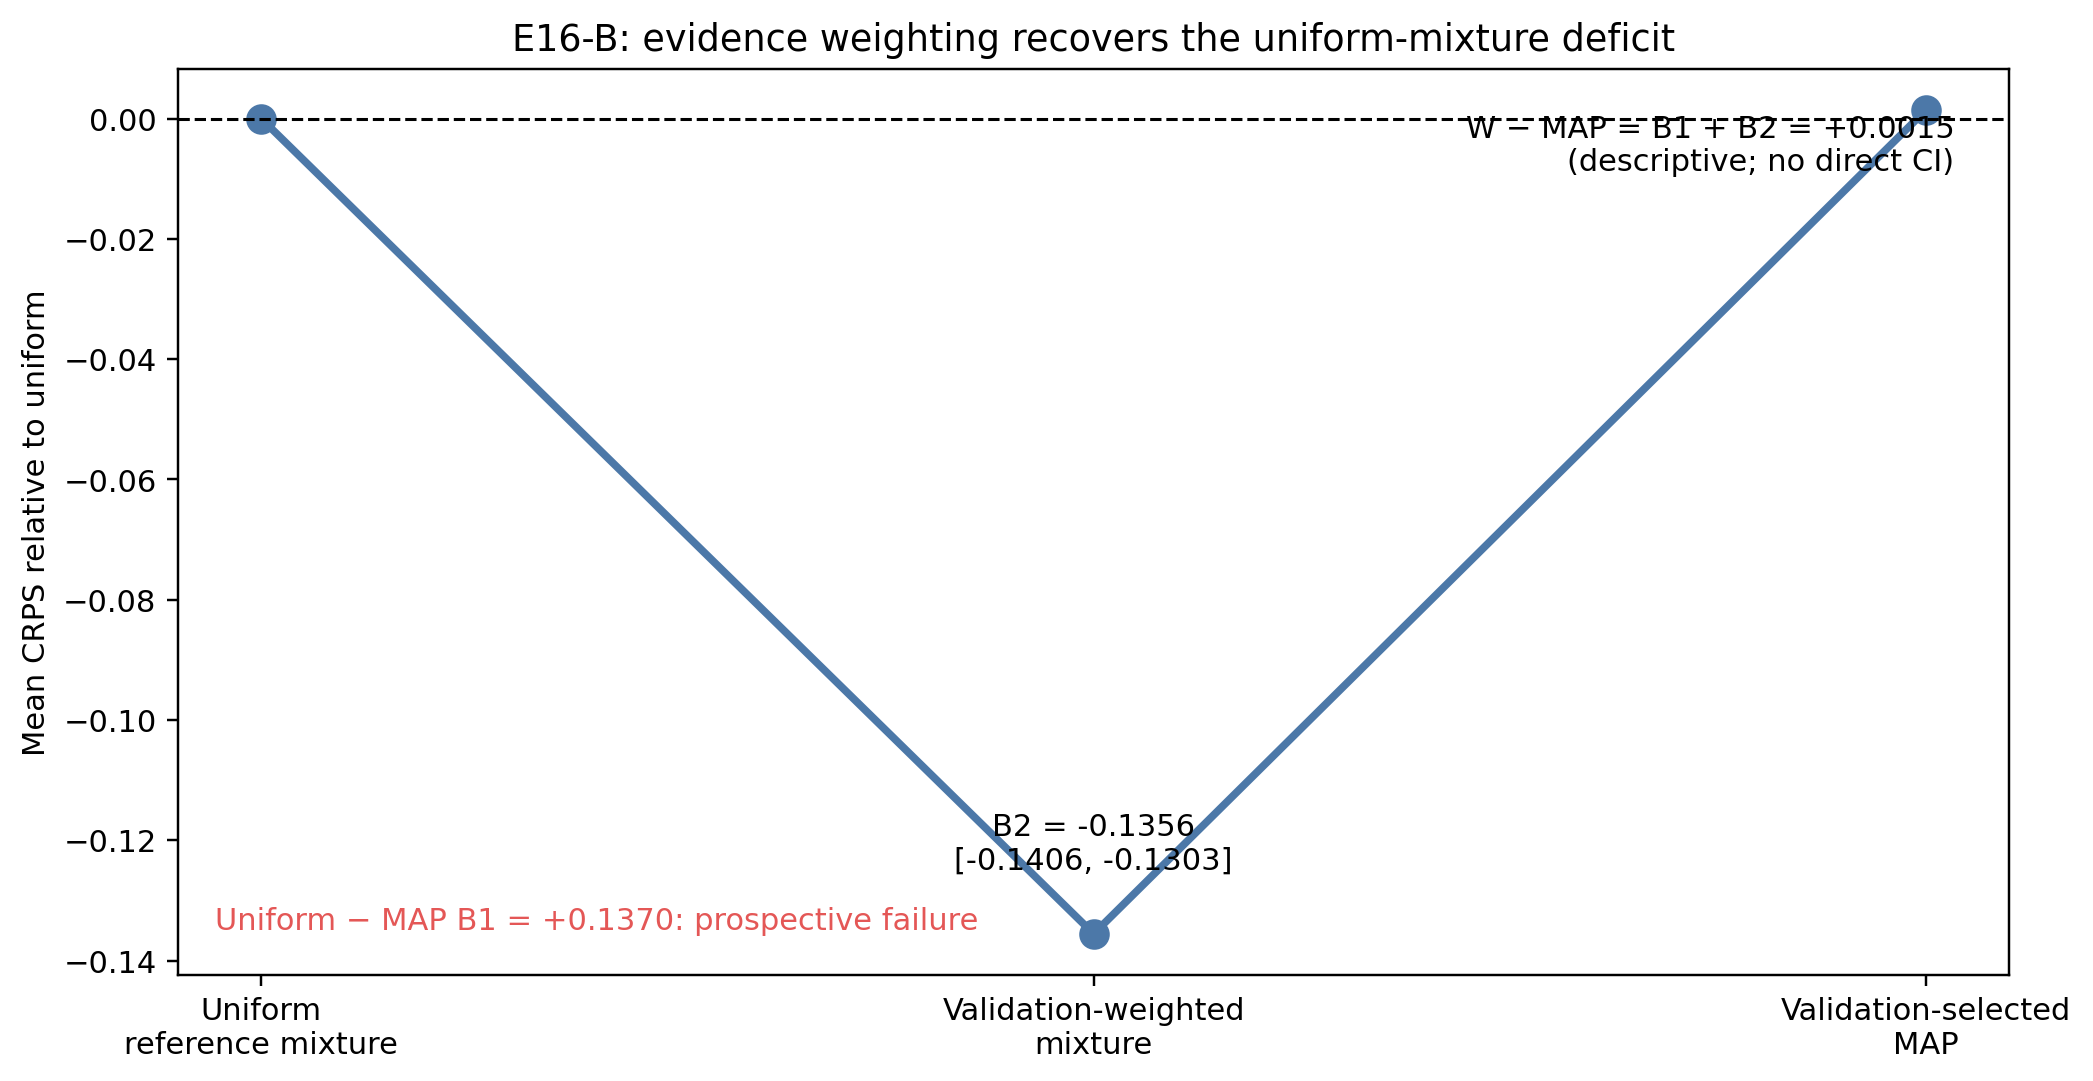
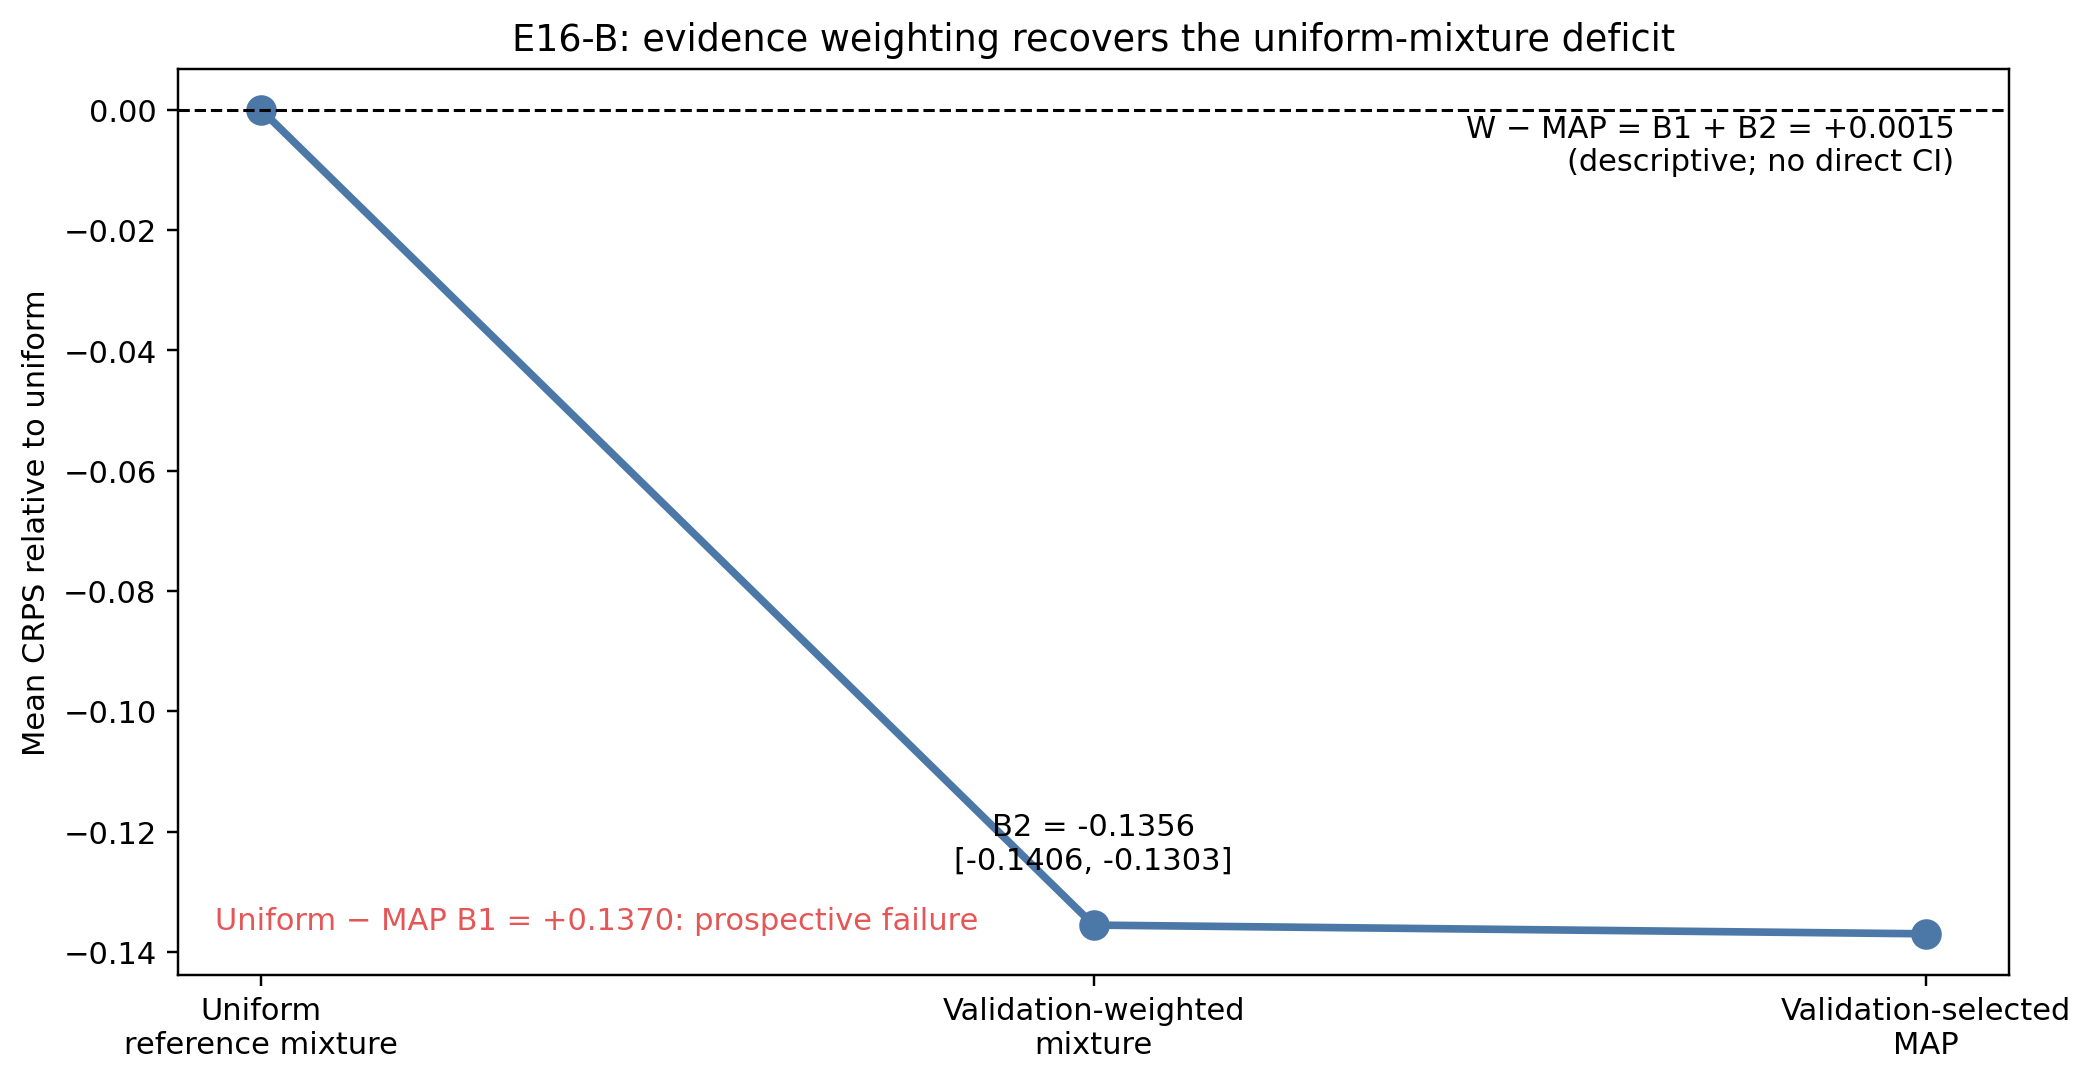
Fix E16-B conclusion pathway MAP coordinate

diff --git a/experiments/render_e16b_ccpp_conclusion_pathway.py b/experiments/render_e16b_ccpp_conclusion_pathway.py
@@ -21,7 +21,10 @@ def main() -> None:
 
     fig, ax = plt.subplots(figsize=(9.4, 4.8), constrained_layout=True)
     x = [0, 1, 2]
-    y = [0.0, b2["mean"], weighted_minus_map]
+    # The ordinate is CRPS relative to the uniform mixture: MAP - Uniform is
+    # -B1, not Weighted - MAP.  The latter remains an annotated derived
+    # descriptive contrast below.
+    y = [0.0, b2["mean"], -b1["mean"]]
     labels = ["Uniform\nreference mixture", "Validation-weighted\nmixture", "Validation-selected\nMAP"]
     ax.plot(x, y, color="#4C78A8", linewidth=2.5, marker="o", markersize=9)
     ax.axhline(0.0, color="black", linestyle="--", linewidth=1)
